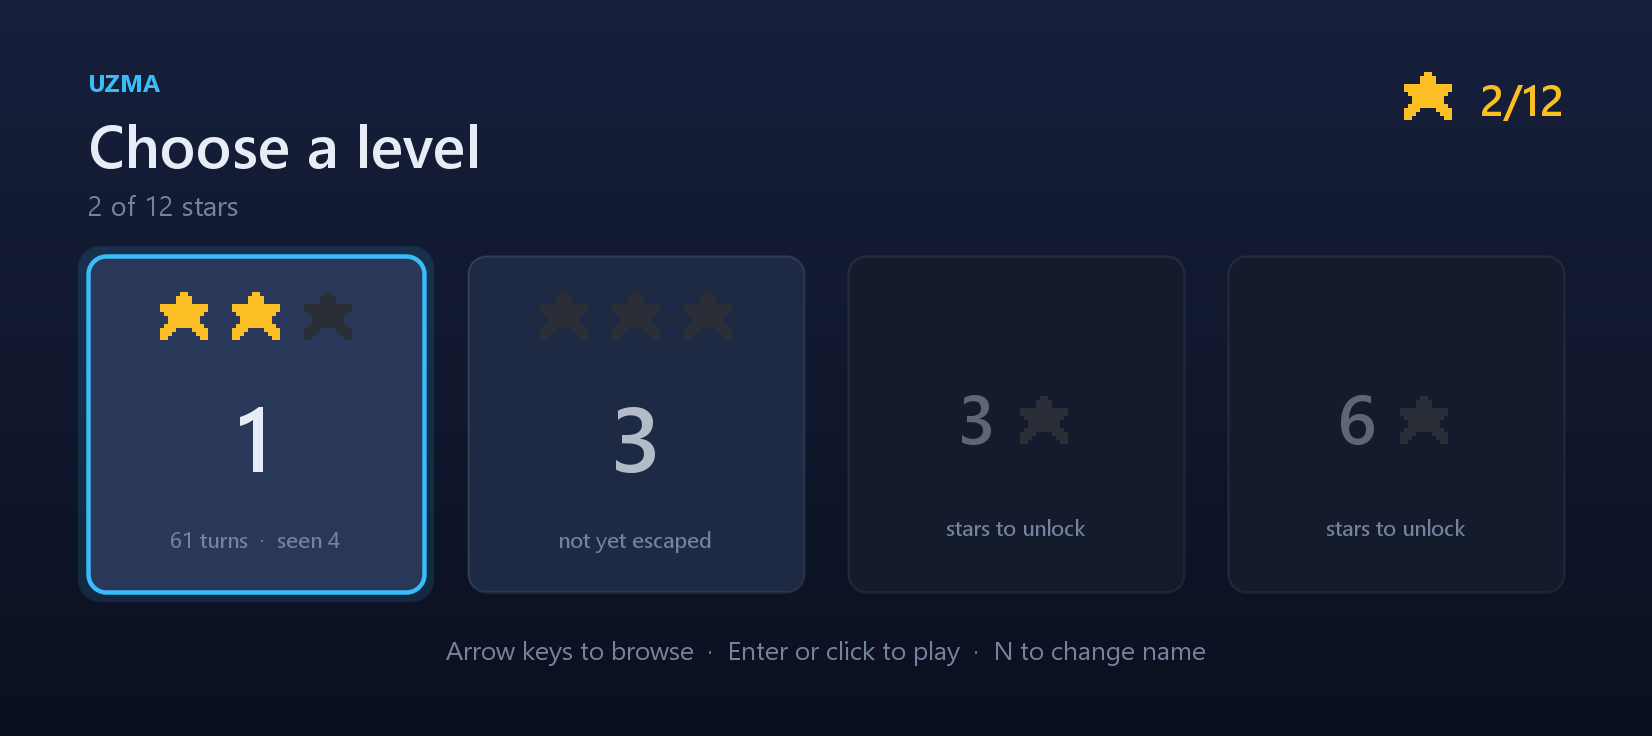
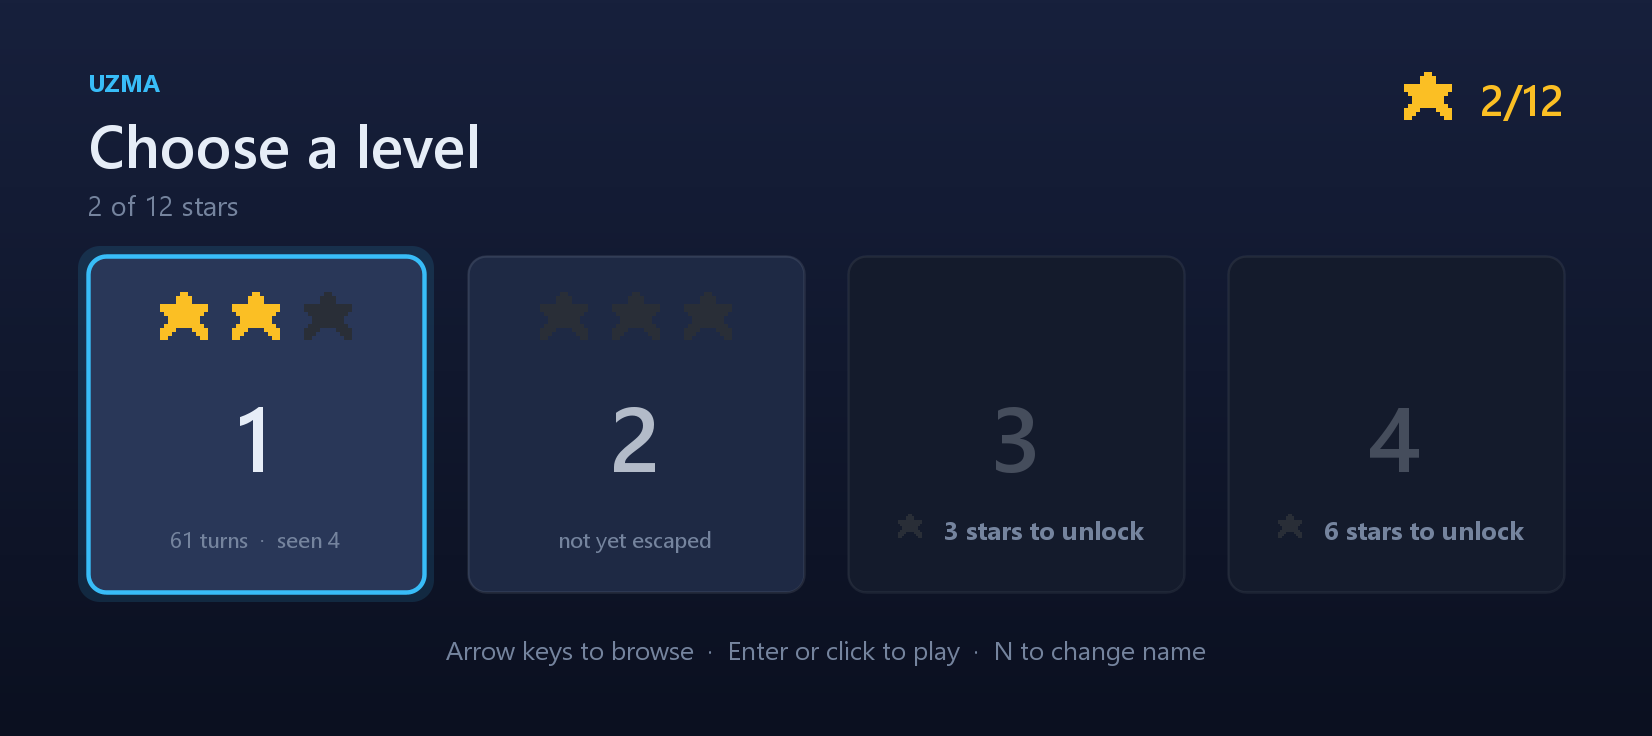
Number the levels by play order
The grid read 1, 3, 3, 6 and looked like level 2 was missing. The levels were ordered by the stars they cost to open while the boxes were labelled from their file names, so the two disagreed the moment a later-numbered level unlocked earlier.

The files are renamed so the numbering is the play order, and the select screen now numbers each box by its position rather than by anything parsed out of a name, so the label cannot drift from the order again whatever the files are called.

A locked box shows its own number with the cost underneath. It used to show only the stars needed, as one big number, so the fourth box read 6 and looked like level six.

diff --git a/src/main/java/com/signallost/ui/LevelSelectPanel.java b/src/main/java/com/signallost/ui/LevelSelectPanel.java
@@ -222,10 +222,10 @@ public final class LevelSelectPanel extends JPanel {
 
         if (unlocked) {
             drawStars(g, bounds, profile.starsOn(entry.name()));
-            drawNumber(g, bounds, entry.shortLabel(), isSelected);
+            drawNumber(g, bounds, String.valueOf(index + 1), isSelected);
             drawBest(g, bounds, profile.bestOn(entry.name()));
         } else {
-            drawLock(g, bounds, entry.starsToUnlock());
+            drawLock(g, bounds, index + 1, entry.starsToUnlock());
         }
     }
 
@@ -239,6 +239,12 @@ public final class LevelSelectPanel extends JPanel {
         }
     }
 
+    /**
+     * The box number, which is its position in the list rather than anything
+     * taken from the file name. The two drifted apart once already: the levels
+     * were ordered by the stars they cost while being labelled from their file
+     * names, so the grid read 1, 3, 3, 6 and looked like level 2 was missing.
+     */
     private void drawNumber(Graphics2D g, Rectangle bounds, String label, boolean isSelected) {
         g.setFont(Fonts.display(46f));
         g.setColor(isSelected ? Palette.TEXT : Palette.withAlpha(Palette.TEXT, 190));
@@ -261,27 +267,35 @@ public final class LevelSelectPanel extends JPanel {
                 bounds.y + bounds.height - 22);
     }
 
-    private void drawLock(Graphics2D g, Rectangle bounds, int starsNeeded) {
-        g.setFont(Fonts.display(34f));
-        g.setColor(Palette.withAlpha(Palette.TEXT, 90));
-        String label = String.valueOf(starsNeeded);
+    /**
+     * A locked box still shows which level it is.
+     *
+     * <p>It used to show only the stars needed, as one big number, so the
+     * fourth box read "6" and looked like level six. The level number stays in
+     * the same place it occupies on an unlocked box, dimmed, and the cost goes
+     * underneath where it cannot be mistaken for it.
+     */
+    private void drawLock(Graphics2D g, Rectangle bounds, int number, int starsNeeded) {
+        g.setFont(Fonts.display(46f));
+        g.setColor(Palette.withAlpha(Palette.TEXT, 60));
+        String label = String.valueOf(number);
         FontMetrics metrics = g.getFontMetrics();
-        int textWidth = metrics.stringWidth(label);
+        g.drawString(label,
+                bounds.x + (bounds.width - metrics.stringWidth(label)) / 2,
+                bounds.y + 108);
 
-        double starSize = 30;
-        double totalWidth = textWidth + 8 + starSize;
+        g.setFont(Fonts.bodyBold(13f));
+        FontMetrics costMetrics = g.getFontMetrics();
+        String cost = starsNeeded + " stars to unlock";
+        int costWidth = costMetrics.stringWidth(cost);
+        double starSize = 22;
+        double totalWidth = starSize + 6 + costWidth;
         double x = bounds.getCenterX() - totalWidth / 2;
+        int baseline = bounds.y + bounds.height - 26;
 
-        g.drawString(label, (int) x, bounds.y + bounds.height / 2 + 10);
-        ObjectSprite.paintStar(g, x + textWidth + 8 + starSize / 2,
-                bounds.y + bounds.height / 2.0, starSize, false);
-
-        g.setFont(Fonts.body(11f));
+        ObjectSprite.paintStar(g, x + starSize / 2, baseline - 6, starSize, false);
         g.setColor(Palette.TEXT_DIM);
-        String hint = "stars to unlock";
-        g.drawString(hint,
-                bounds.x + (bounds.width - g.getFontMetrics().stringWidth(hint)) / 2,
-                bounds.y + bounds.height - 28);
+        g.drawString(cost, (int) (x + starSize + 6), baseline);
     }
 
     private void drawFooter(Graphics2D g) {

diff --git a/src/test/java/com/signallost/ProgressTest.java b/src/test/java/com/signallost/ProgressTest.java
@@ -164,7 +164,7 @@ class ProgressTest {
         assertEquals(0, levels.get(0).starsToUnlock(), "the first level is always open");
         assertTrue(levels.size() >= 2);
         assertEquals("LEVEL 1", levels.get(0).displayName());
-        assertEquals("1", levels.get(0).shortLabel());
+        assertEquals("level2", levels.get(1).name(), "the second box is the second level");
     }
 
     @Test

diff --git a/README.md b/README.md
@@ -323,9 +323,16 @@ level2 1
 
 ## Levels
 
-Four levels ship: **1** a small lattice, **3** a wider one, **4** a tall one,
-and **2** the large facility, unlocked last because it is the hardest. They are
-ordered by the stars they cost to open rather than by their file names.
+Four levels ship, numbered in play order: **1** a small lattice, **2** a wider
+one, **3** a tall one, **4** the large facility. Each costs stars to open — 0,
+1, 3 and 6 — so the hardest comes last.
+
+The file names *are* the play order, and the select screen numbers its boxes by
+position rather than by anything parsed out of a name. Those two drifted apart
+once: the levels were ordered by unlock cost while being labelled from their
+file names, so the grid read 1, 3, 3, 6 and looked like level 2 had gone
+missing. A locked box shows its own number with the cost underneath, rather than
+showing the cost as the number.
 
 **Level 1** is a lattice: corridors with pillars, so there is always a way
 round. That matters more than it sounds — the previous level 1 had a single
